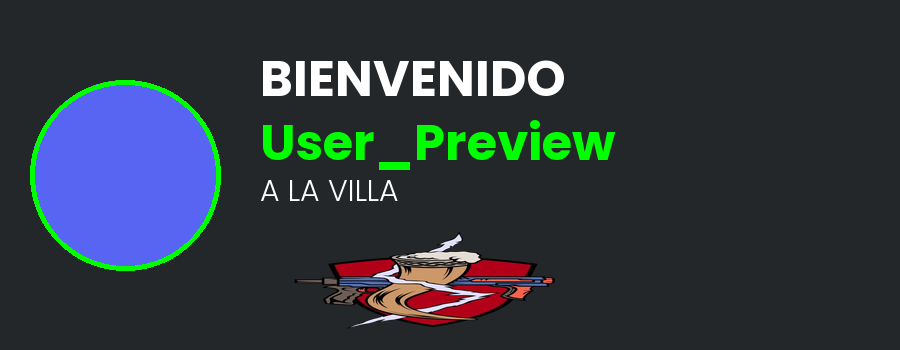
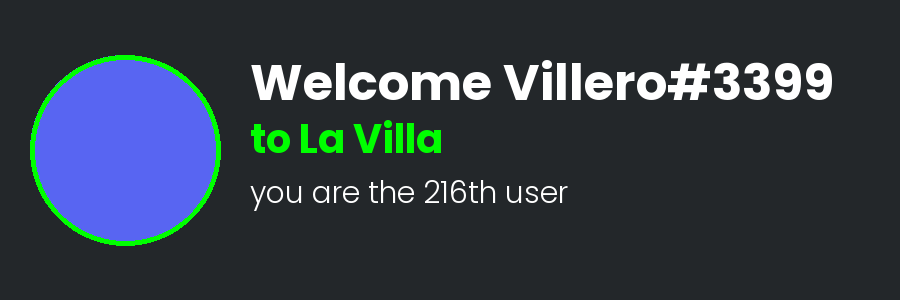
Implement Nth Member Welcome Card style

Changed region(s): [[0.28, 0.15, 0.9333, 0.93], [0.0311, 0.57, 0.2489, 0.84], [0.0311, 0.18, 0.2489, 0.42]]

diff --git a/src/bot.py b/src/bot.py
@@ -129,41 +129,45 @@ class SuperBot(commands.Bot):
 
         print("Bot is Ready!")
 
+def get_ordinal(n):
+    if 11 <= (n % 100) <= 13: suffix = 'th'
+    else: suffix = {1: 'st', 2: 'nd', 3: 'rd'}.get(n % 10, 'th')
+    return f"{n}{suffix}"
+
     async def on_member_join(self, member):
         # FEATURE 1: WELCOME IMAGES
         channel = discord.utils.get(member.guild.text_channels, name="bienvenida")
         if channel:
-            # Create Image
-            # Create Image
-            background = Editor(Canvas((900, 350), color="#23272A"))
-            
-            # Add Logo/Title Image if exists
-            logo_path = "assets/villa-castelo.png"
-            if not os.path.exists(logo_path):
-                 logo_path = "welcome_bg.png"
-            
-            if os.path.exists(logo_path):
-                 # Resize to reasonable Logo/Title size (e.g. 350px wide)
-                 logo = Editor(logo_path).resize((350, 110))
-                 background.paste(logo, (260, 230)) # Bottom
+            # Create Image - Member Count Style
+            background = Editor(Canvas((900, 300), color="#23272A"))
             
             profile_image = await load_image_async(str(member.display_avatar.url))
             profile = Editor(profile_image).resize((190, 190)).circle_image()
             
             poppins = Font.poppins(size=50, variant="bold")
+            poppins_med = Font.poppins(size=40, variant="bold")
             poppins_small = Font.poppins(size=30, variant="light")
 
-            background.paste(profile, (30, 80))
-            background.ellipse((30, 80), 190, 190, outline="#00ff00", stroke_width=5)
-            background.text((260, 60), "BIENVENIDO", color="white", font=poppins)
-            background.text((260, 120), f"{member.name}", color="#00ff00", font=poppins)
-            background.text((260, 180), f"A LA VILLA", color="white", font=poppins_small)
+            # Left Avatar (Centered in 300px height is y=55)
+            background.paste(profile, (30, 55))
+            background.ellipse((30, 55), 190, 190, outline="#00ff00", stroke_width=5)
+            
+            # Text Elements
+            guild_name = member.guild.name
+            ordinal = get_ordinal(member.guild.member_count)
+            
+            background.text((250, 60), f"Welcome {member.name}", color="white", font=poppins)
+            background.text((250, 120), f"to {guild_name}", color="#00ff00", font=poppins_med)
+            background.text((250, 180), f"you are the {ordinal} user", color="white", font=poppins_small)
 
             file = discord.File(fp=background.image_bytes, filename="welcome.png")
             
             # Find roles channel for mention
             roles_channel = discord.utils.get(member.guild.text_channels, name="roles")
-            welcome_text = f"Hola {member.mention}, bienvenido al servidor!"
+            
+            # New Message Format
+            welcome_text = f"Welcome {member.mention} to **{guild_name}**. You are the **{ordinal}** user!"
+            
             if roles_channel:
                 welcome_text += f"\nNo olvides pasar por {roles_channel.mention} para asignarte tus roles."
             

diff --git a/scripts/preview_welcome.py b/scripts/preview_welcome.py
@@ -1,34 +1,36 @@
 from easy_pil import Editor, Canvas, Font, load_image_async
 import asyncio
-import os
+def get_ordinal(n):
+    if 11 <= (n % 100) <= 13: suffix = 'th'
+    else: suffix = {1: 'st', 2: 'nd', 3: 'rd'}.get(n % 10, 'th')
+    return f"{n}{suffix}"
 
 async def generate_preview():
-    # 1. Background (Dark) - Increased Height to 350
-    background = Editor(Canvas((900, 350), color="#23272A"))
+    # 1. Background (Dark) - Maintain 350 height for spacing OR revert to 250 if compact?
+    # The reference image is compact. Let's try 300.
+    background = Editor(Canvas((900, 300), color="#23272A"))
     
     # Text Fonts
     poppins = Font.poppins(size=50, variant="bold")
+    poppins_med = Font.poppins(size=40, variant="bold")
     poppins_small = Font.poppins(size=30, variant="light")
 
-    # 3. Avatar (Re-positioned to y=80 for vertical center)
+    # 2. Avatar (Left side, big)
+    # Centered vertically in 300px is y=150. Radius 95 (190 size).
     profile = Editor(Canvas((190, 190), color="#5865F2")).circle_image()
-    background.paste(profile, (30, 80))
-    background.ellipse((30, 80), 190, 190, outline="#00ff00", stroke_width=5)
+    background.paste(profile, (30, 55)) # y=55 to center in 300 (300-190=110/2=55)
+    background.ellipse((30, 55), 190, 190, outline="#00ff00", stroke_width=5)
     
-    # Text Elements
-    background.text((260, 60), "BIENVENIDO", color="white", font=poppins)
-    background.text((260, 120), "User_Preview", color="#00ff00", font=poppins)
-    background.text((260, 180), "A LA VILLA", color="white", font=poppins_small)
-
-    # 2. Logo Logic (Below Text)
-    logo_path = "assets/villa-castelo.png"
-    if os.path.exists(logo_path):
-        # Resize to fit nicely below text
-        logo = Editor(logo_path).resize((350, 110))
-        background.paste(logo, (260, 230)) # Below "A LA VILLA"
-        print("Logo pasted at bottom.")
-    else:
-        print("Logo NOT found.")
+    # 3. Text Elements
+    # Mock Data
+    member_name = "Villero#3399"
+    guild_name = "La Villa"
+    ordinal = get_ordinal(216)
+    
+    # Layout: Right of avatar (starts approx x=250)
+    background.text((250, 60), f"Welcome {member_name}", color="white", font=poppins)
+    background.text((250, 120), f"to {guild_name}", color="#00ff00", font=poppins_med)
+    background.text((250, 180), f"you are the {ordinal} user", color="white", font=poppins_small)
 
     background.save("preview_welcome.png")
     print("Preview saved to preview_welcome.png")
